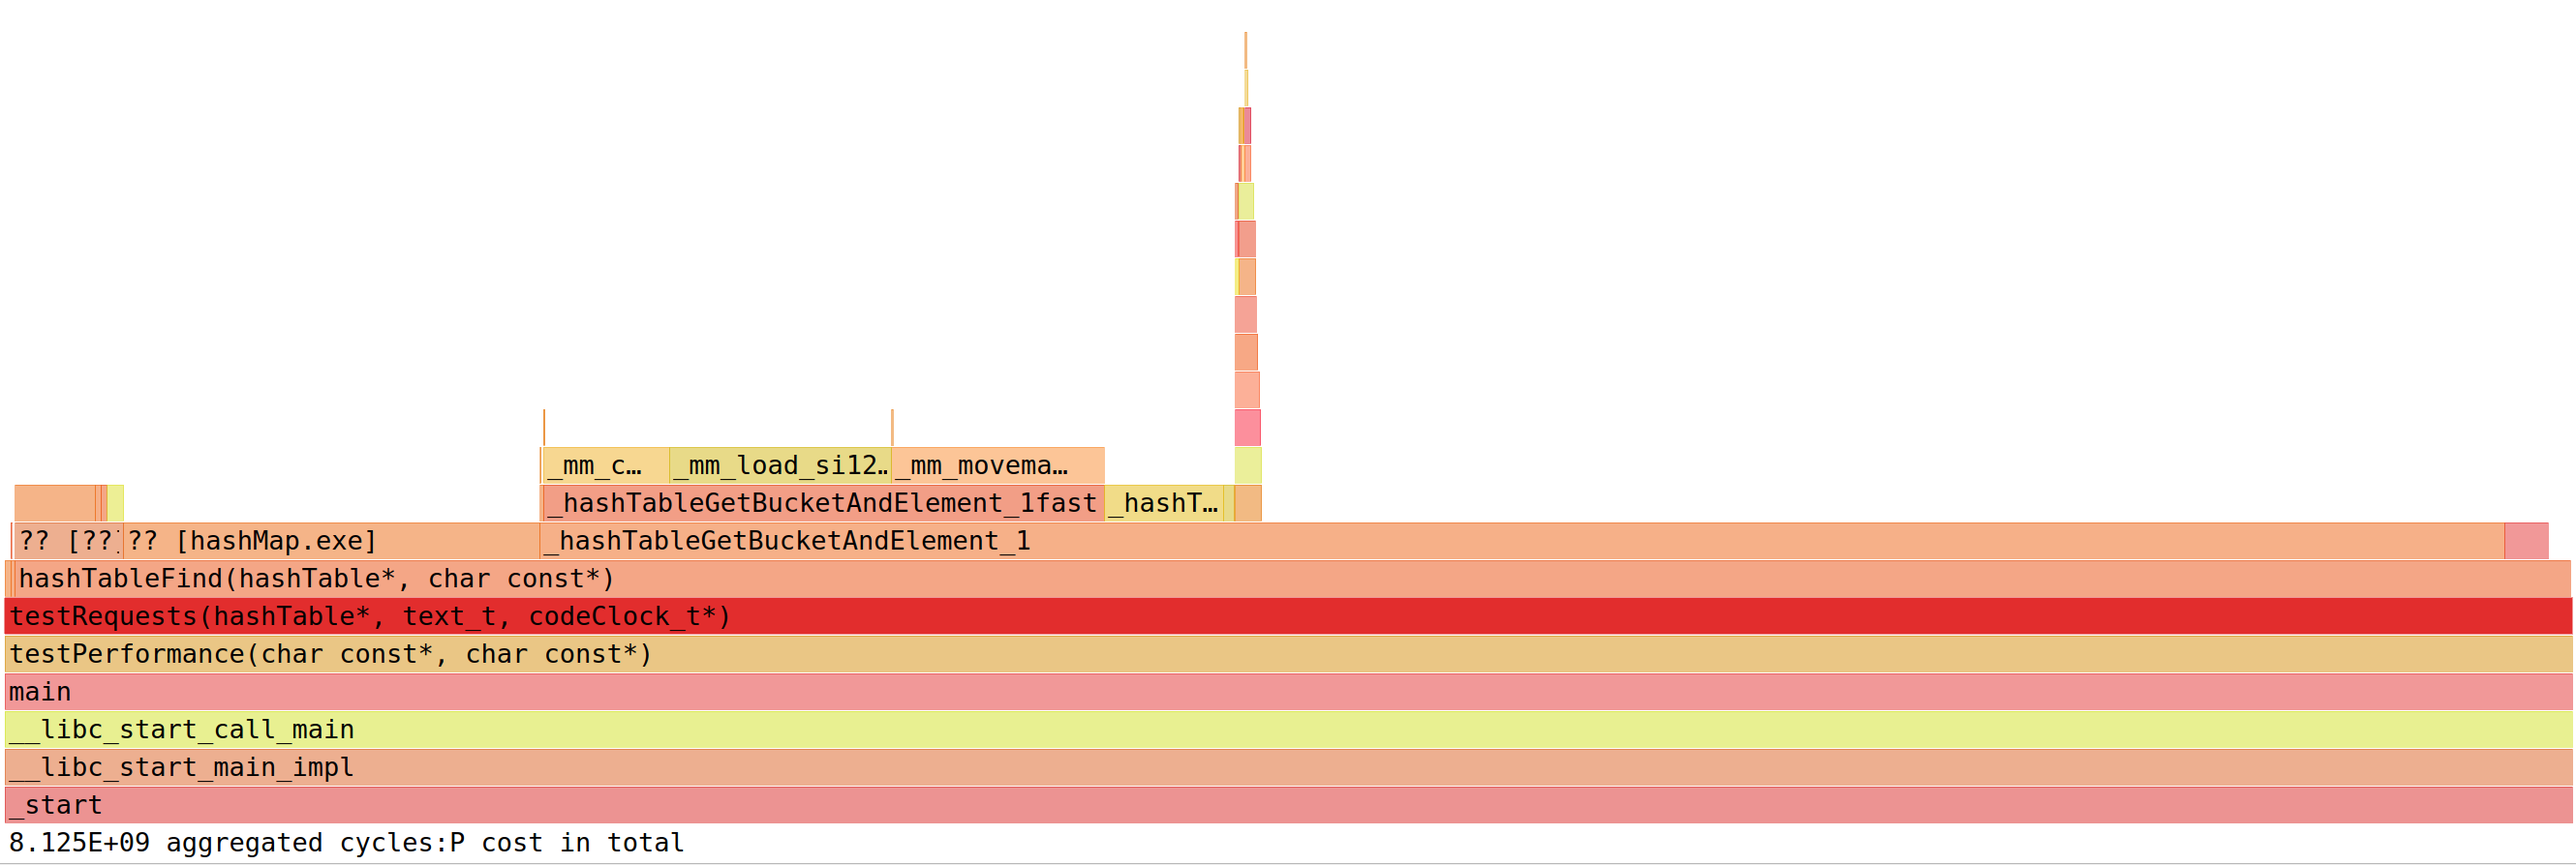
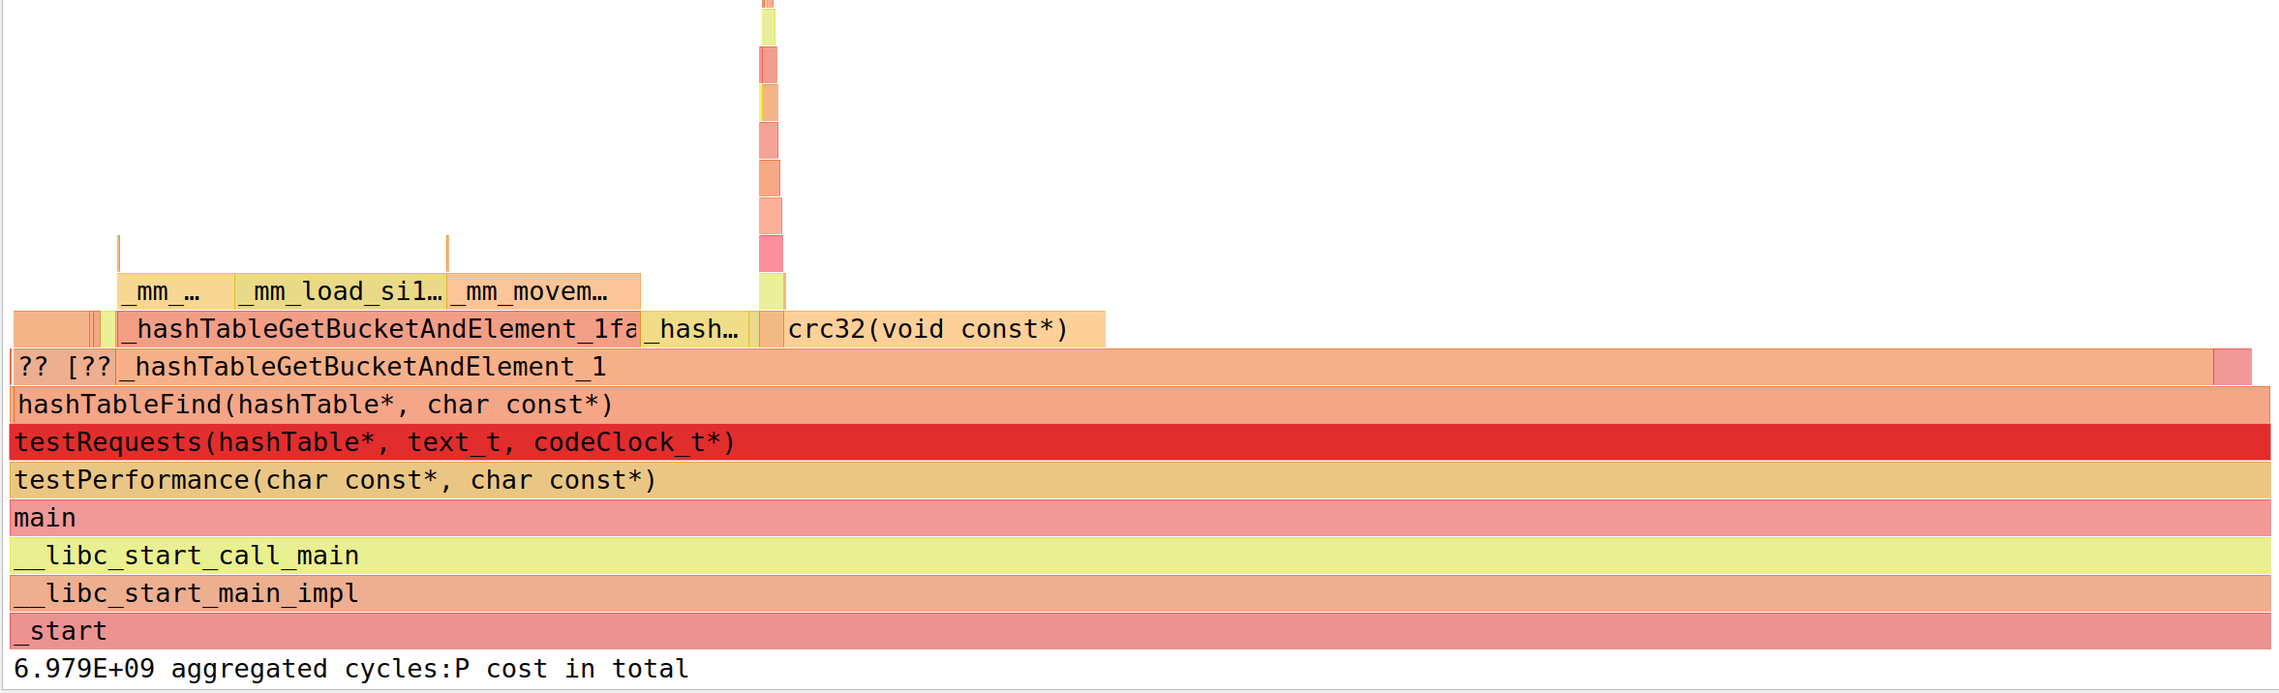
Updated README

diff --git a/source/hashTable.c b/source/hashTable.c
@@ -367,60 +367,60 @@ static hashTableNode_t *_hashTableGetBucketAndElement_1(hashTable_t *table, cons
     return NULL;
 }
 
-// static hashTableNode_t *_hashTableGetBucketAndElement_2(hashTable_t *table, const char *key, hashTableNode_t **bucketPtr) {
-//     assert(table);
-//     assert(key);
-//     assert(table->buckets);
-//     assert(table->bucketsCount);
+static hashTableNode_t *_hashTableGetBucketAndElement_2(hashTable_t *table, const char *key, hashTableNode_t **bucketPtr) {
+    assert(table);
+    assert(key);
+    assert(table->buckets);
+    assert(table->bucketsCount);
 
-//     _VERIFY(table, NULL);
+    _VERIFY(table, NULL);
 
-//     const size_t keyLen = strlen(key);
-//     alignas(KEY_ALIGNMENT) char keyCopy[SMALL_STR_LEN] = "";
+    const size_t keyLen = strlen(key);
+    alignas(KEY_ALIGNMENT) char keyCopy[SMALL_STR_LEN] = "";
 
-//     hash_t keyHash   = 0;
-//     if (keyLen >= SMALL_STR_LEN) {
-//         // Note: hashes calculated with fastCrc32u and fastCrc32_16 
-//         // may be different, because with fastCrc32_16 zeros are appended to get 16 bytes 
-//         keyHash = fastCrc32u(key);
+    hash_t keyHash   = 0;
+    if (keyLen >= SMALL_STR_LEN) {
+        // Note: hashes calculated with fastCrc32u and fastCrc32_16 
+        // may be different, because with fastCrc32_16 zeros are appended to get 16 bytes 
+        keyHash = fastCrc32u(key);
     
-//     } else {
-//         memcpy(keyCopy, key, keyLen+1);
-//         keyHash = fastCrc32_16(keyCopy);
-//     }
+    } else {
+        memcpy(keyCopy, key, keyLen+1);
+        keyHash = fastCrc32_16(keyCopy);
+    }
 
-//     // Bucket - head node of the list
-//     // Node = bucket->next - first node with element
-//     size_t bucketIdx = keyHash % table->bucketsCount;
-//     hashTableNode_t *bucket = (table->buckets + bucketIdx),
-//                     *node   = bucket->next;
-//     if (bucketPtr)
-//         *bucketPtr = bucket;
+    // Bucket - head node of the list
+    // Node = bucket->next - first node with element
+    size_t bucketIdx = keyHash % table->bucketsCount;
+    hashTableNode_t *bucket = (table->buckets + bucketIdx),
+                    *node   = bucket->next;
+    if (bucketPtr)
+        *bucketPtr = bucket;
 
-//     if (keyLen >= SMALL_STR_LEN) {
-//         while (node) {
-//             if (CMP_LEN_OPT(node->len == keyLen &&) strcmp(node->key, key) == 0 )
-//                 return node;
+    if (keyLen >= SMALL_STR_LEN) {
+        while (node) {
+            if (CMP_LEN_OPT(node->len == keyLen &&) strcmp(node->key, key) == 0 )
+                return node;
 
-//             node = node->next;
-//         }
-//     } else {
-//         // Loading key to SIMD register
-//         MMi_t searchKey = _MM_LOAD((MMi_t *) keyCopy);        
+            node = node->next;
+        }
+    } else {
+        // Loading key to SIMD register
+        MMi_t searchKey = _MM_LOAD((MMi_t *) keyCopy);        
 
-//         while (node) {
-//             if (CMP_LEN_OPT(node->len == keyLen &&) 
-//                 //! Alignment of key is guaranteed by aligned_calloc with KEY_ALIGNMENT
-//                 fastStrcmp(searchKey, (MMi_t *) node->key) == 0)
-//                 return node;
+        while (node) {
+            if (CMP_LEN_OPT(node->len == keyLen &&) 
+                //! Alignment of key is guaranteed by aligned_calloc with KEY_ALIGNMENT
+                fastStrcmp(searchKey, (MMi_t *) node->key) == 0)
+                return node;
 
-//             node = node->next;
+            node = node->next;
 
-//         }        
-//     }
+        }        
+    }
 
-//     return NULL;
-// }
+    return NULL;
+}
 
 /// @brief Core function of hashTable
 /// Search element in table, return pointer to it (or NULL) and write pointer of corresponding bucket   

diff --git a/README.md b/README.md
@@ -20,7 +20,7 @@ Built-in hash functions:
 + `djb2` - simple and fast hashing algorithm
 + `crc32` - used by default
 
-You may pass your own hash function. Requirments:
+You use your own hash function specify it in `include/hashTable.h` in `#define _HASH_FUNC`. Requirments for hash function:
 
 + `hash_t your_hash(const void *ptr);`
 + `ptr` is pointer to the start of C-string (may change later)
@@ -179,3 +179,4 @@ Execution time: 9.2 seconds, 34.9 * 10^9 clock cycles
 
 ![crc32u_flame](docs/flame_crc32u.png)
 
+Program now works faster, but hashing function takes more cycles. Probable explanation: `crc32` uses different polynom, which has better distribution. On my test file dispersion of elements in bucket decreased from 4.03 to 3.93.
